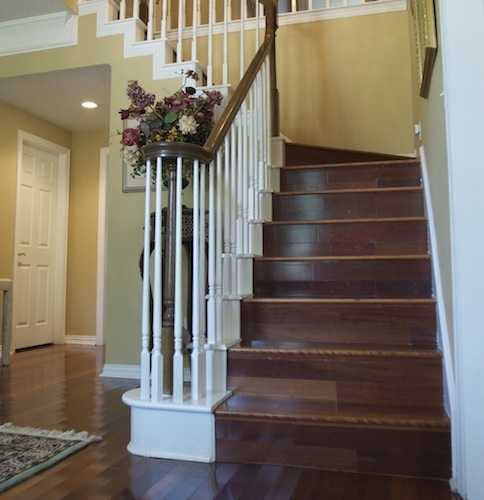
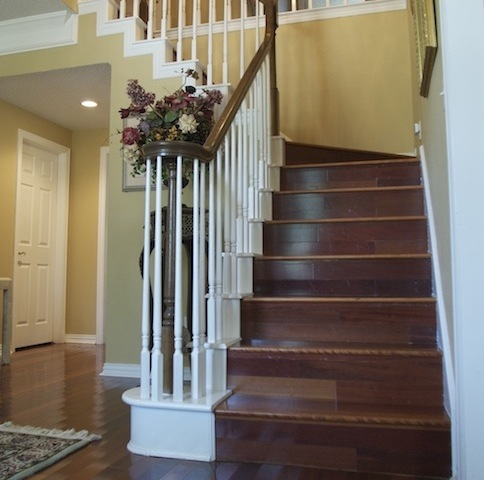
Fixed all images to fit carousel container properly

diff --git a/hardscapes.html b/hardscapes.html
@@ -105,13 +105,13 @@
             <!-- Carousel items -->
             <div class="carousel-inner">
               <div class="item active">
-                <img src="img/fence.jpg" alt="">
+                <img src="img/fence2.jpg" alt="">
                 <div class="carousel-caption">
                   <h4>Fences</h4>
                 </div>
               </div>
               <div class="item">
-                <img src="img/IronFence.jpg" alt="">
+                <img src="img/IronFence2.jpg" alt="">
                 <div class="carousel-caption">
                   <h4>Retaining Walls</h4>
                 </div>
@@ -123,19 +123,7 @@
                 </div>
               </div>
               <div class="item">
-                <img src="img/DeckWork.jpg" alt="">
-                <div class="carousel-caption">
-                  <h4>Decks and Patio</h4>
-                </div>
-              </div>
-              <div class="item">
-                <img src="img/outdoor-appliance.jpg" alt="">
-                <div class="carousel-caption">
-                  <h4>Outdoor Kitchens</h4>
-                </div>
-              </div>
-              <div class="item">
-                <img src="img/DeckWork.jpg" alt="">
+                <img src="img/DeckWork2.jpg" alt="">
                 <div class="carousel-caption">
                   <h4>Decks and Patio</h4>
                 </div>
@@ -144,6 +132,12 @@
                 <img src="img/patio.jpg" alt="">
                 <div class="carousel-caption">
                   <h4>Decks and Patios</h4>
+                </div>
+              </div>
+              <div class="item">
+                <img src="img/outdoor-appliance.jpg" alt="">
+                <div class="carousel-caption">
+                  <h4>Outdoor Kitchens</h4>
                 </div>
               </div>
               <div class="item">

diff --git a/landscaping.html b/landscaping.html
@@ -100,12 +100,6 @@
                 </div>
               </div>
               <div class="item">
-                <img src="img/Flowerbeds.jpg" alt="">
-                <div class="carousel-caption">
-                  <h4>Flowerbeds</h4>
-                </div>
-              </div>
-              <div class="item">
                 <img src="img/Flowerbeds2.jpg" alt="">
                 <div class="carousel-caption">
                   <h4>Flowerbeds</h4>
@@ -118,7 +112,13 @@
                 </div>
               </div>
               <div class="item">
-                <img src="img/DeckWork.jpg" alt="">
+                <img src="img/kennedy-house2.jpg" alt="">
+                <div class="carousel-caption">
+                  <h4>Landscapes</h4>
+                </div>
+              </div>
+              <div class="item">
+                <img src="img/DeckWork2.jpg" alt="">
                 <div class="carousel-caption">
                   <h4>Landscapes</h4>
                 </div>

diff --git a/construction.html b/construction.html
@@ -99,7 +99,7 @@
                 </div>
               </div>
               <div class="item active">
-                <img src="img/roof.jpg" alt="">
+                <img src="img/roof2.jpg" alt="">
                 <div class="carousel-caption">
                   <h4>Roofing</h4>
                 </div>
